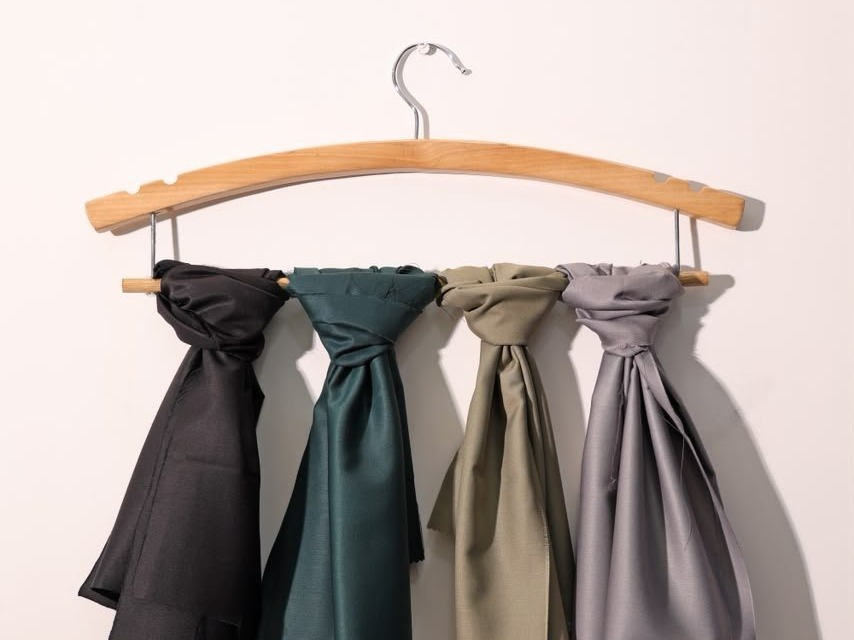
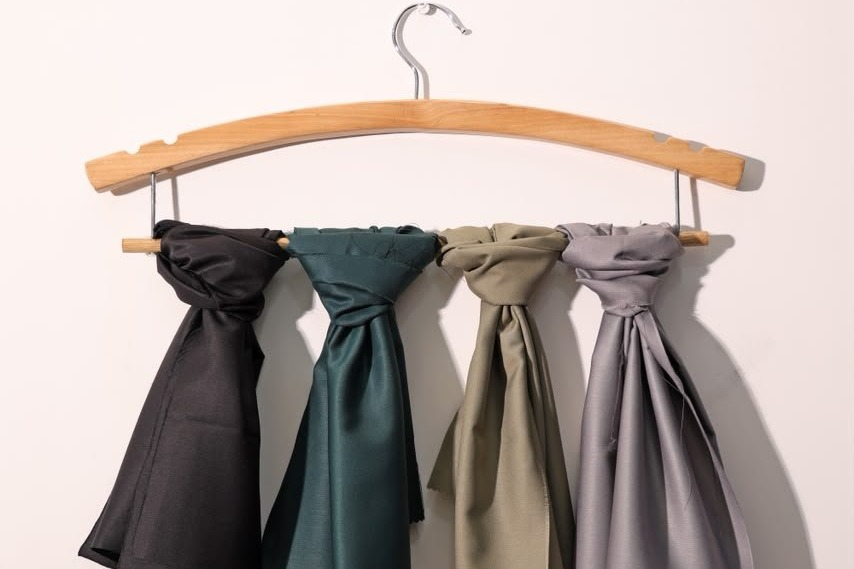
copy: rename manufacturing eyebrow to "Under the Guidance of"; VAS intro to "shirting fabric line"
fix: re-crop the Collections scarves-hanger photo tighter to its actual
3:2 box, cutting the leftover blank wall above the hook that the
previous 4:3 crop left in when the image moved sections.

feat: use new real photography for category.lyocell-cotton (tonal
mauve/taupe/grey fan), replacing the pink/yellow/blue drape.

diff --git a/src/content/vas.hi.ts b/src/content/vas.hi.ts
@@ -16,7 +16,7 @@ export const vas = {
   },
 
   intro: {
-    body: 'वास हमारी मेंसवियर शर्टिंग लाइन है, और सवायावास जिस भी चीज़ के लिए खड़ा है उसकी पहली पूर्ण अभिव्यक्ति। जड़ वास का अर्थ है फैब्रिक: ऐसा कपड़ा जो उस अनुशासन से बना है जो एक परिवार ने तीन पीढ़ियों में सीखा कि एक शर्ट को कैसा महसूस होना चाहिए।',
+    body: 'वास हमारी मेंसवियर शर्टिंग फैब्रिक लाइन है, और सवायावास जिस भी चीज़ के लिए खड़ा है उसकी पहली पूर्ण अभिव्यक्ति। जड़ वास का अर्थ है फैब्रिक: ऐसा कपड़ा जो उस अनुशासन से बना है जो एक परिवार ने तीन पीढ़ियों में सीखा कि एक शर्ट को कैसा महसूस होना चाहिए।',
     cta: { label: 'पूरी कहानी पढ़ें', to: '/our-story' },
   },
 

diff --git a/src/content/collections.hi.ts b/src/content/collections.hi.ts
@@ -32,7 +32,7 @@ export const collectionsPage = {
   },
 
   manufacturing: {
-    eyebrow: 'विनिर्माण विशेषज्ञता',
+    eyebrow: 'इनके मार्गदर्शन में',
     headline: 'शुभ शांतिनाथ सिल्क मिल्स',
     body: 'हर कलेक्शन शुभ शांतिनाथ सिल्क मिल्स के अंतर्गत निर्मित होता है, जिसे टेक्सटाइल निर्माण की तीन दशकों की विशेषज्ञता का समर्थन प्राप्त है। चाहे आप एक टेलरिंग नेटवर्क, गारमेंट निर्माण इकाई या निर्यात ऑर्डर के लिए सोर्सिंग कर रहे हों, हमारे कलेक्शन भरोसेमंद ढंग से आगे बढ़ने के लिए बनाए गए हैं: लूम से लेकर कटिंग टेबल तक।',
   },

diff --git a/src/content/vas.en.ts b/src/content/vas.en.ts
@@ -18,7 +18,7 @@ export const vas = {
   },
 
   intro: {
-    body: 'VAS is our menswear shirting line, and the first full expression of everything Savayavas stands for. The root Vas means fabric: cloth made with the discipline of a family that has spent three generations learning what a shirt is supposed to feel like.',
+    body: 'VAS is our menswear shirting fabric line, and the first full expression of everything Savayavas stands for. The root Vas means fabric: cloth made with the discipline of a family that has spent three generations learning what a shirt is supposed to feel like.',
     cta: { label: 'Read the full story', to: '/our-story' },
   },
 

diff --git a/src/content/collections.en.ts b/src/content/collections.en.ts
@@ -30,7 +30,7 @@ export const collectionsPage = {
   },
 
   manufacturing: {
-    eyebrow: 'Manufacturing Expertise',
+    eyebrow: 'Under the Guidance of',
     headline: 'Shubh Shantinath Silk Mills',
     body: 'Every collection is manufactured under Shubh Shantinath Silk Mills, backed by three decades of textile manufacturing expertise. Whether you are sourcing for a tailoring network, a garment manufacturing unit or an export order, our collections are built to move: from loom to cut table, reliably.',
   },
